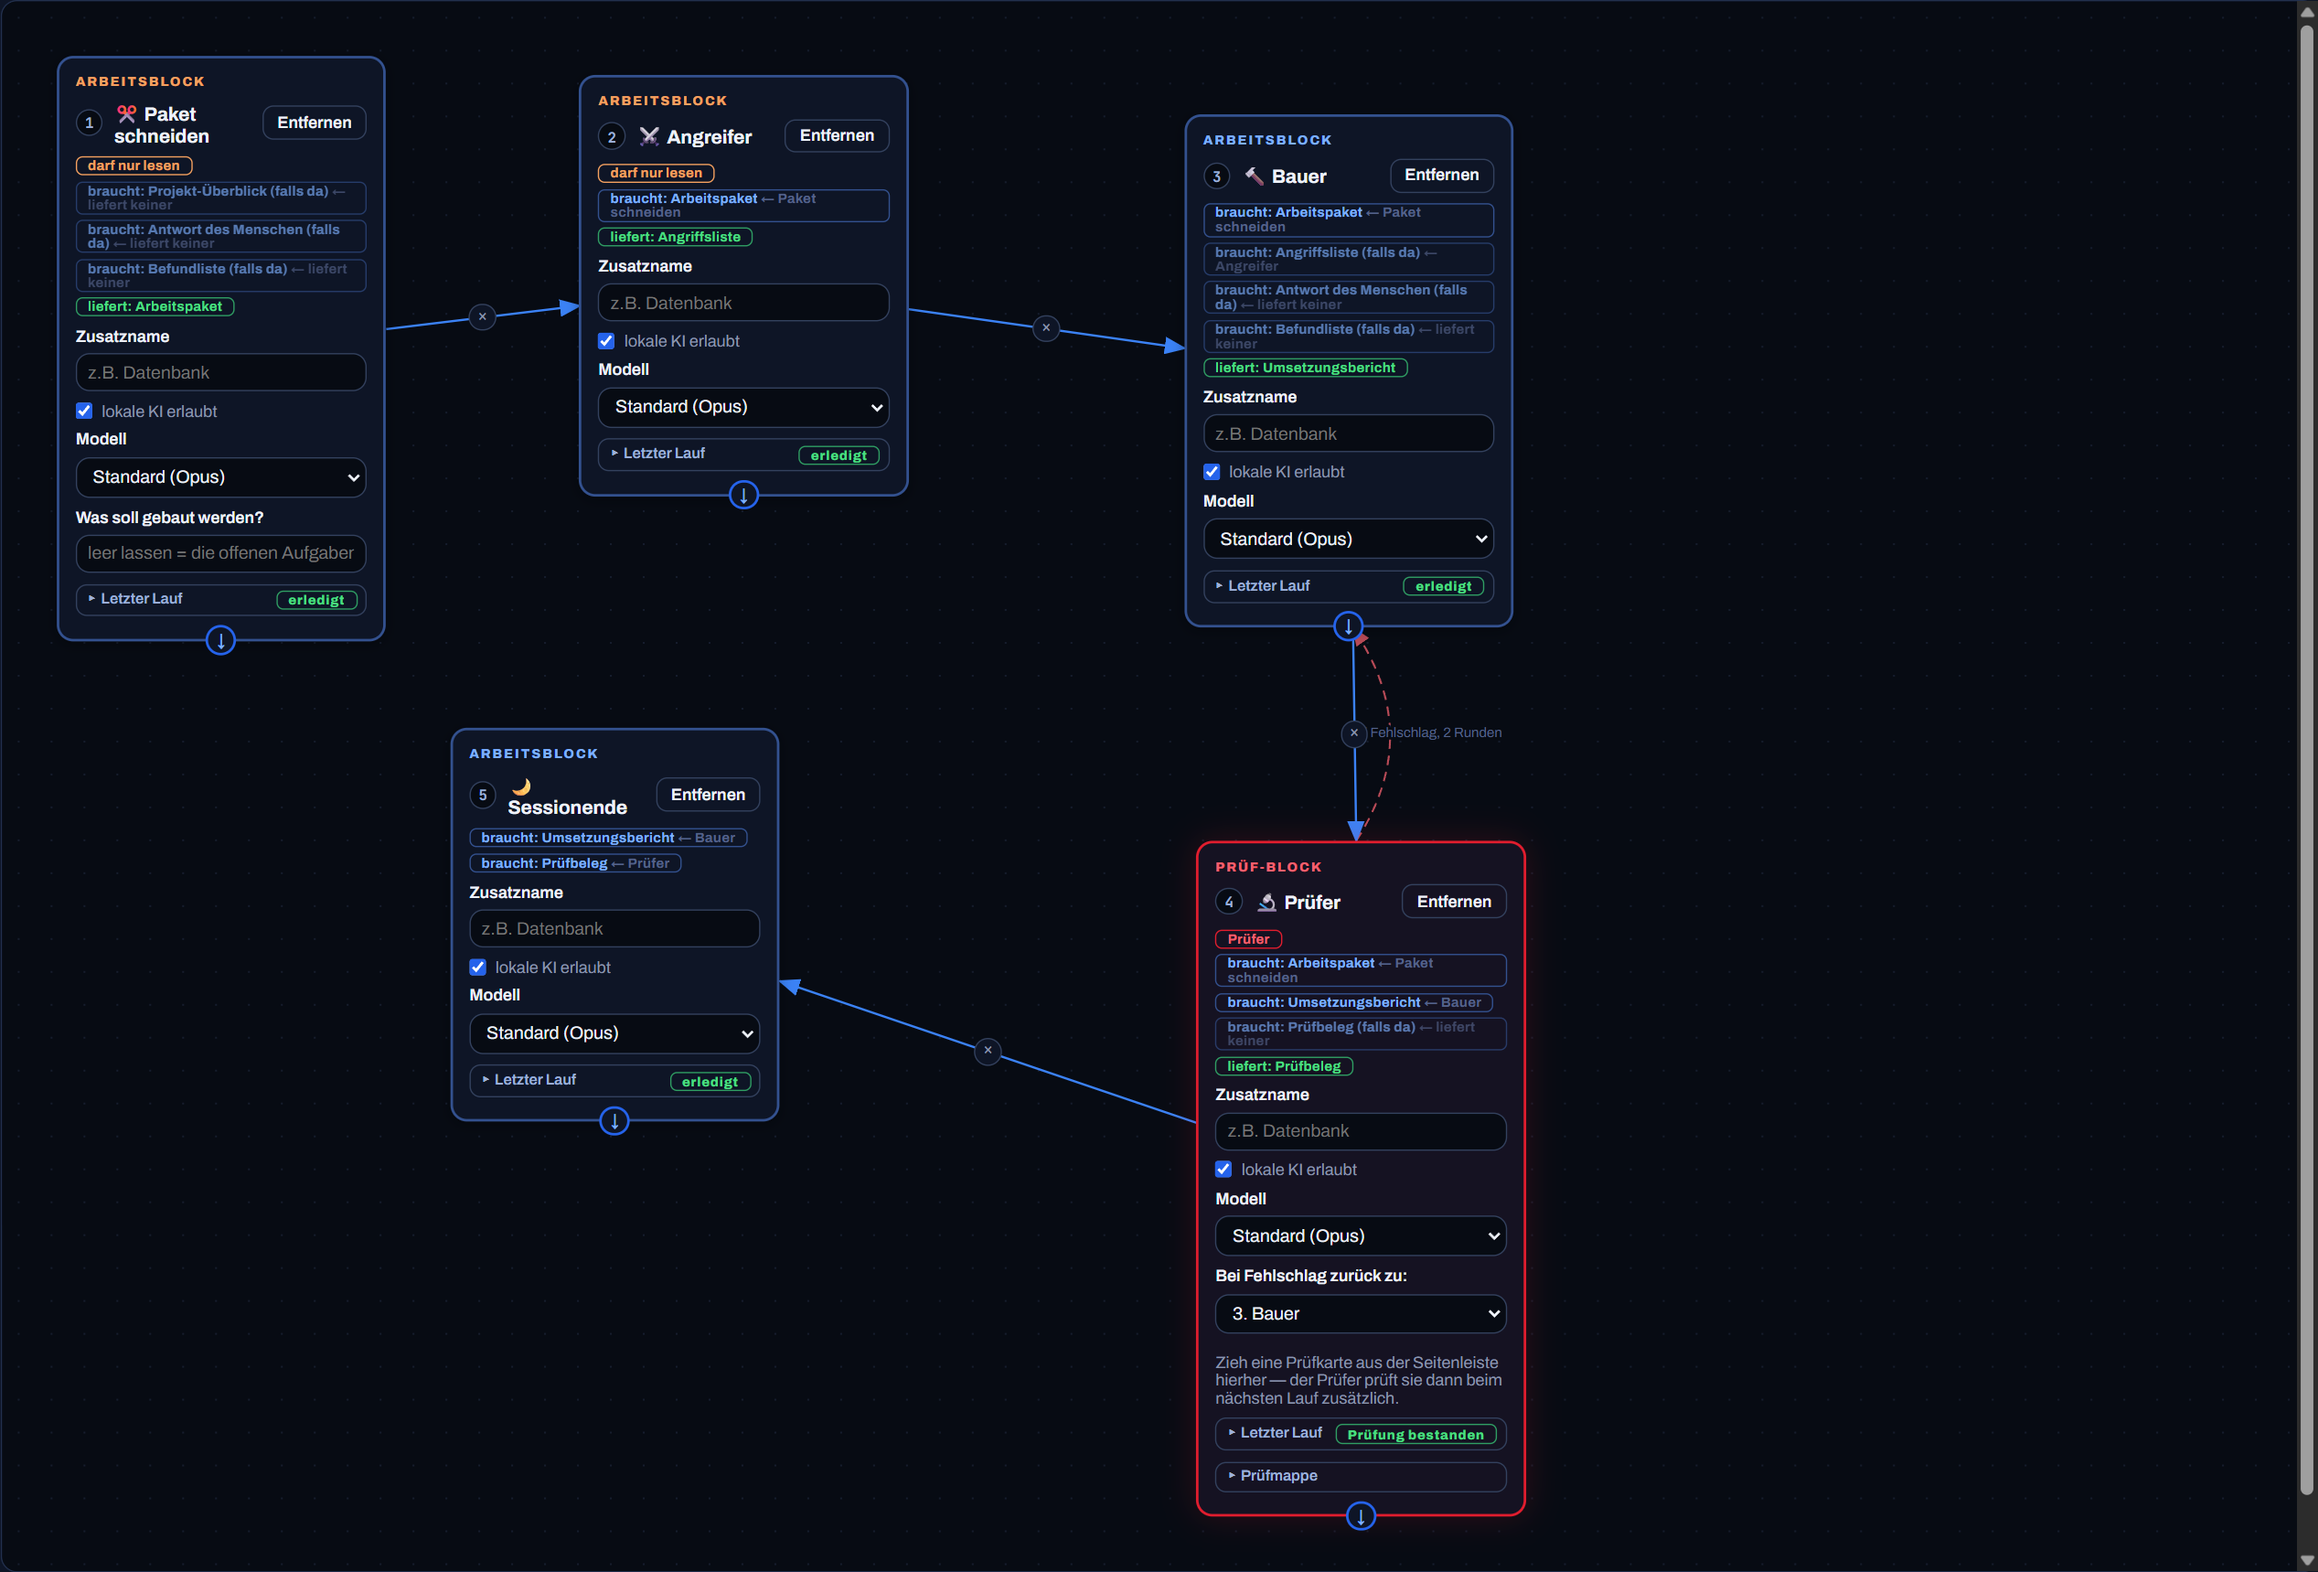
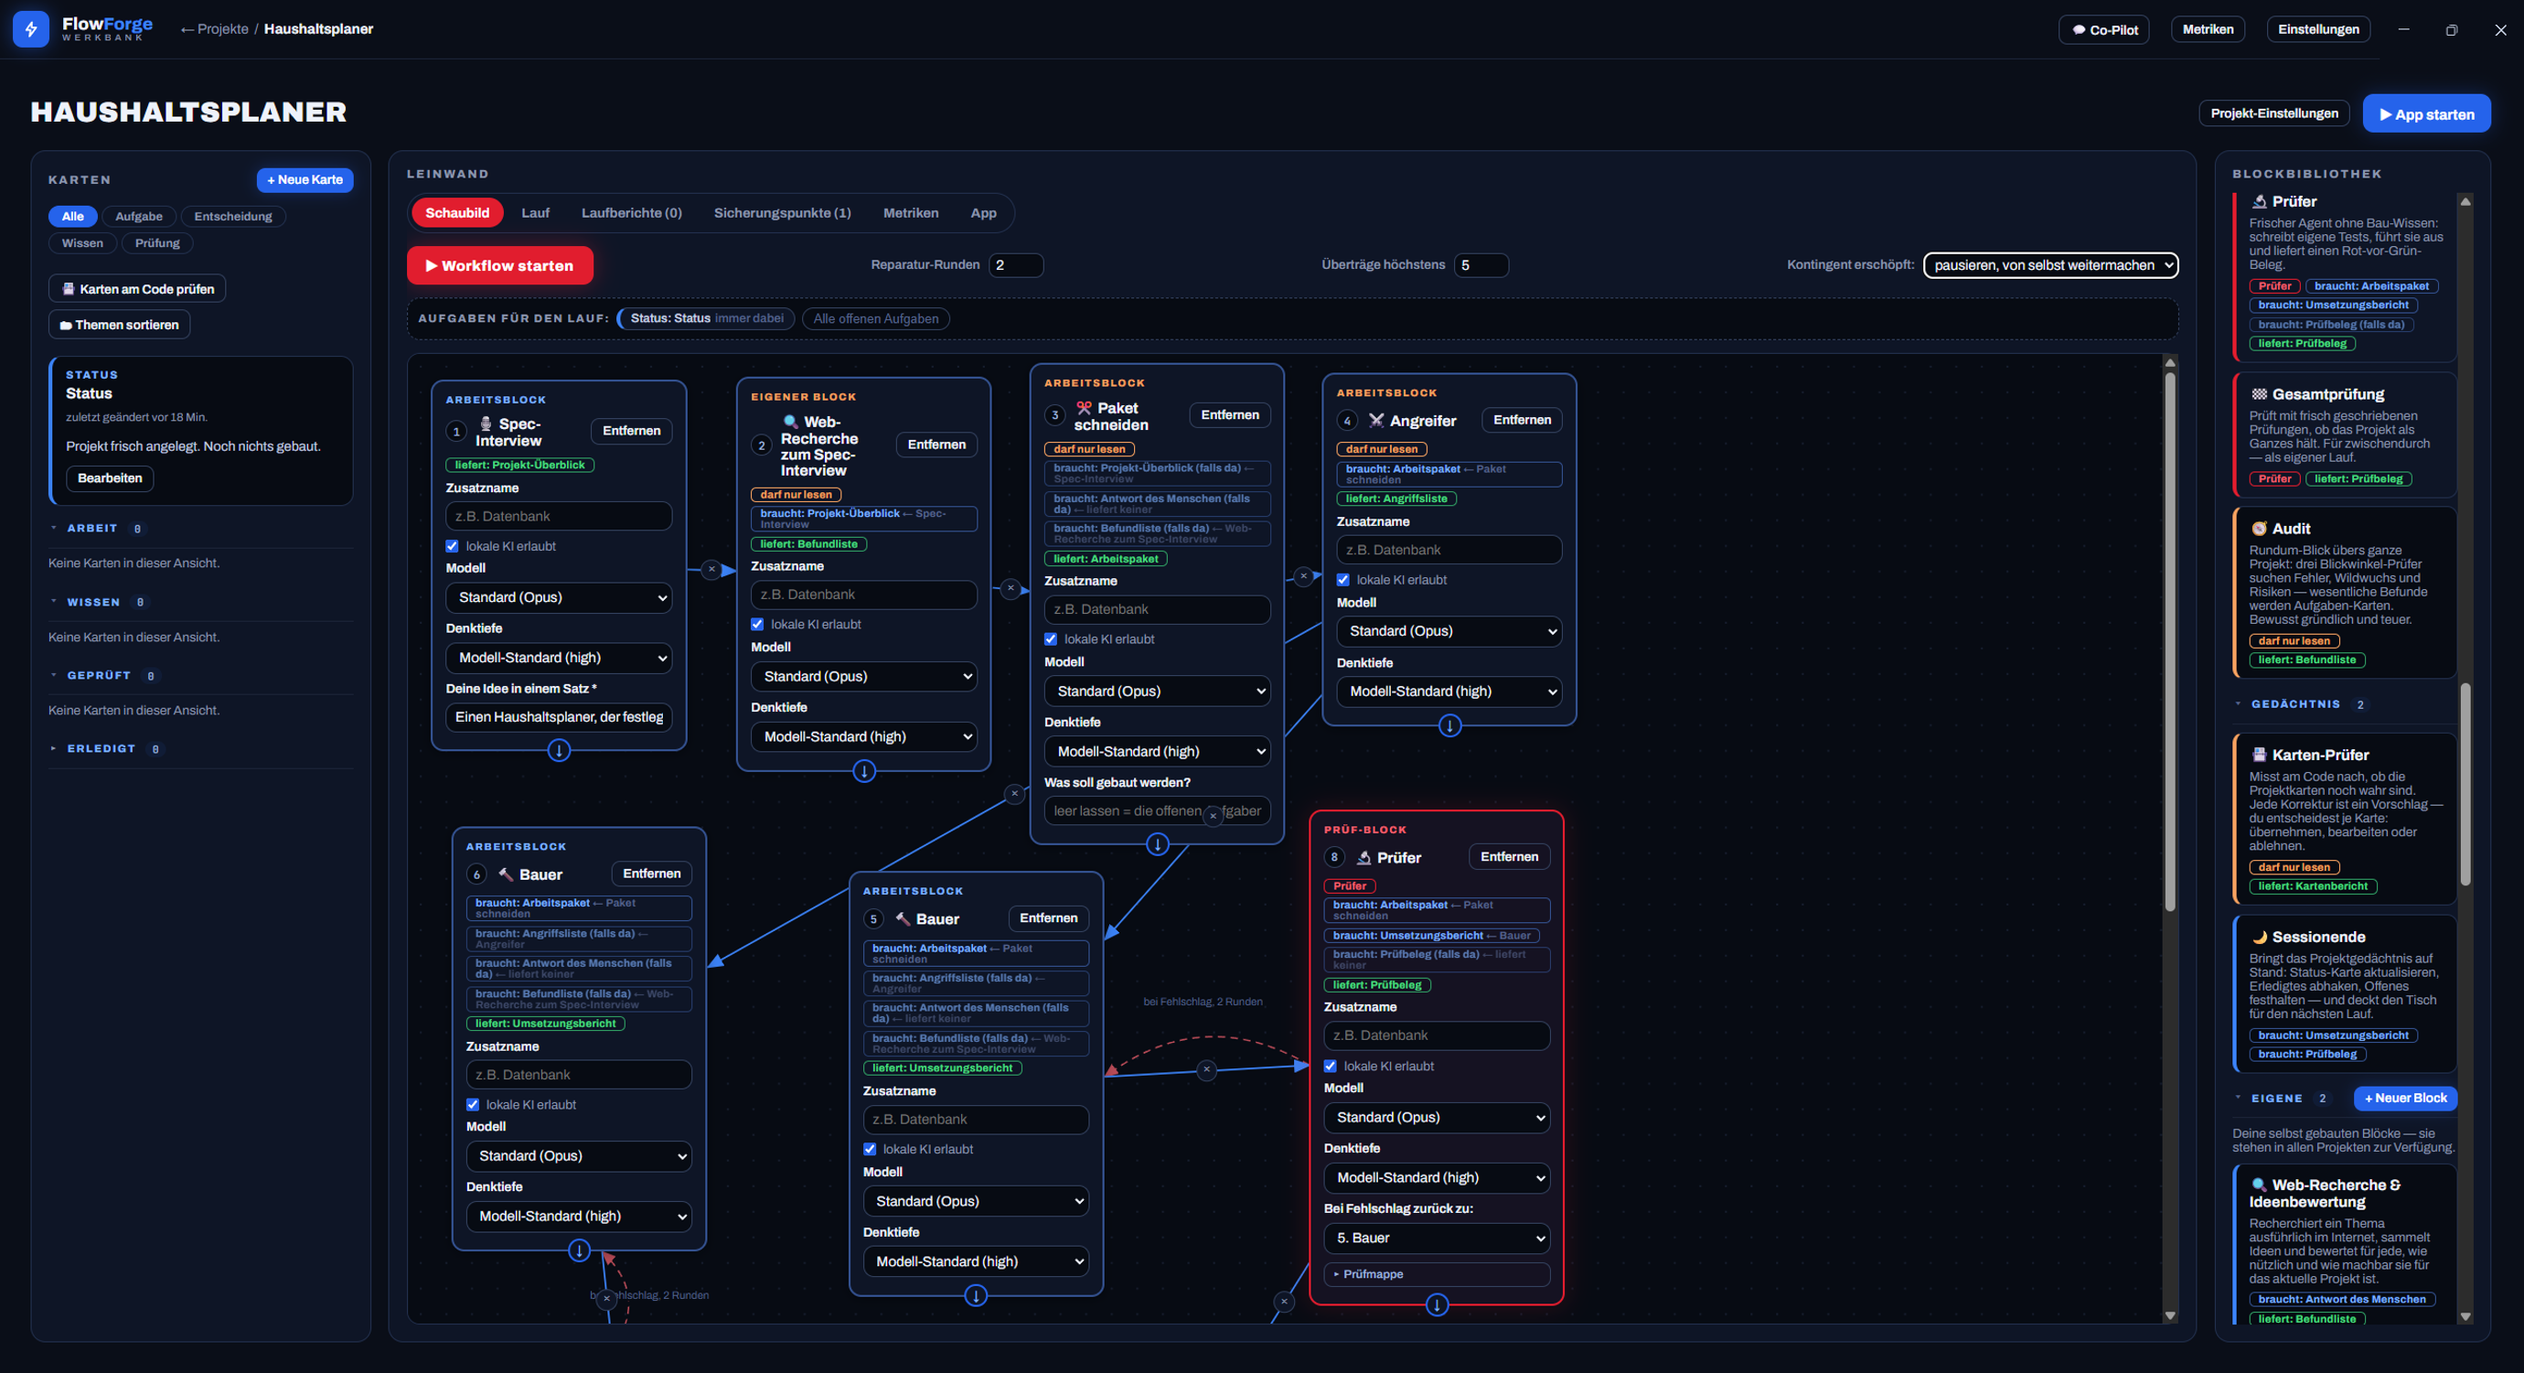
README: neue Funktionen aufgenommen, Schaubild- und Lauf-Bilder ersetzt
Bilder (Wunsch Georg, aus seinen Aufnahmen vom 22.08.2026):
- schaubild.png ersetzt: elfteiliger Workflow mit Modell- und Denktiefe-Wahl je
  Karte, dazu schaubild-fortsetzung.png fuer den zweiten Teil der Kette
  (zwei parallele Bauer, Integrator, Sessionende).
- werkbank-lauf.png ersetzt werkbank-laufbericht.png: ein LAUFENDER Lauf mit
  Gespraech, Liveticker und aufgeklapptem Denken statt der Bericht-Ansicht.

Persoenliche Daten in werkbank-lauf.png unkenntlich gemacht — acht wortgenaue
Masken, keine flaechigen (der Gespraechsverlauf bleibt lesbar, sonst zeigte das
Bild nichts mehr von dem, wofuer es da ist): zweimal zwei Vornamen in den Fragen
F10 und F11, zweimal im Denk-Protokoll, dazu Name und Alter eines Kindes im
Ticker. Das abgeschnittene, halb ausgeblendete Bruchstueck am oberen Rand ist als
Ganzes maskiert — dort sitzen vier Namen in einer Zeile, an der ohnehin nichts zu
lesen ist.

Die Positionen sind mit einem Lineal-Ueberzug GEMESSEN, nicht geschaetzt: Der
erste Versuch lag um bis zu 40 px daneben, eine Maske landete auf "Muelltonnen"
statt auf dem Namen daneben, und an zwei Stellen blieben Namensreste stehen.
Jede Maske ist danach im fertigen Bild unter der Lupe gegengeprueft.

Text: neuer Abschnitt zur lokalen KI (Block-Agent ueber Ollama, Abnahme des
lokalen Pruefers, Lokal-Waechter, Speicher-Ehrlichkeit, Websuche, Adress-Liste)
und zu den Pruefungen, die sich selbst abspielen (Bauschritt 52). Drei neue
[…]

diff --git a/README.md b/README.md
@@ -24,17 +24,27 @@ gestartet; sie bekommt Block für Block genau einen Auftrag.
 **Das Schaubild.** Block-Karten auf der Leinwand, Pfeile bestimmen die
 Reihenfolge. An jeder Karte steht, was der Block **braucht** und **liefert**, und
 woher es kommt („← Paket schneiden"); ein Prüfer ohne Arbeitspaket lässt sich gar
-nicht erst starten. Der rote Prüf-Block schickt den Bauer bei Rot zurück
-(„Fehlschlag, 2 Runden") — mechanisch, ohne dass die KI darüber entscheidet.
+nicht erst starten. Je Karte wählst du außerdem **Modell** und **Denktiefe** —
+vom sparsamen Sonnet bis zur lokalen KI auf deinem eigenen Rechner. Der rote
+Prüf-Block schickt den Bauer bei Rot zurück („Fehlschlag, 2 Runden") — mechanisch,
+ohne dass die KI darüber entscheidet.
 
-<img src="docs/bilder/schaubild.png" alt="Schaubild: Paket schneiden → Angreifer → Bauer → Prüfer → Sessionende, mit braucht/liefert-Chips und Rückführungspfeil" width="100%">
+<img src="docs/bilder/schaubild.png" alt="Schaubild: Spec-Interview → Web-Recherche → Paket schneiden → Angreifer → zwei Bauer → Prüfer, mit braucht/liefert-Chips, Modell- und Denktiefe-Wahl je Karte und Rückführungspfeil" width="100%">
 
-**Die Projektansicht nach einem Lauf.** Links die Karten (Status, Aufgaben,
-Entscheidungen, Wissen — vom Sessionende gepflegt), in der Mitte der Laufbericht
-mit Tokens, Modell, lokaler Helfer-KI, den Blöcken und jeder Rechte-Rückfrage
-samt Antwort, rechts die Blockbibliothek.
+Dieselbe Leinwand weitergescrollt: zwei Bauer laufen **parallel**, jeder mit
+eigenem Prüfer; der **Integrator (Code)** führt ihre Teile zusammen und geht
+selbst noch einmal durch einen Prüfer, bevor das **Sessionende** die Karten auf
+Stand bringt.
 
-<img src="docs/bilder/werkbank-laufbericht.png" alt="Projektansicht mit Karten-Seitenleiste, Laufbericht und Blockbibliothek" width="100%">
+<img src="docs/bilder/schaubild-fortsetzung.png" alt="Fortsetzung des Schaubilds: zwei Bauer mit je eigenem Prüfer, Integrator (Code) führt zusammen, danach Prüfer und Sessionende" width="100%">
+
+**Ein Lauf, während er läuft.** Oben das **Gespräch**: Ein Block darf dich fragen,
+wenn eine Entscheidung dir gehört — der Lauf hält an, bis du antwortest (hier
+unscharf, es ging um private Haushaltsfragen). Darunter der **Liveticker**, der
+jeden Schritt mitschreibt: gemessene Größe des Start-Prompts, jeder ausgeführte
+Befehl, jede Frage. Ganz unten kannst du dem Agenten beim **Denken** zusehen.
+
+<img src="docs/bilder/werkbank-lauf.png" alt="Laufender Lauf: Gespräch mit Rückfragen an den Menschen, Liveticker mit Token-Messung und Befehlen, aufgeklapptes Denken des Agenten" width="100%">
 
 **Rechte des Agenten.** Drei Stufen, die FlowForge je Werkzeugaufruf durchsetzt:
 ohne Rückfrage · nur mit deiner Erlaubnis · immer gesperrt. Der Automodus betrifft
@@ -62,6 +72,44 @@ anmelden soll (siehe unten).
 <img src="docs/bilder/projektuebersicht.png" alt="Projektübersicht mit Kacheln" width="100%">
 <img src="docs/bilder/erststart.png" alt="Erststart-Dialog: Abo-Login oder API-Schlüssel" width="100%">
 
+## Die lokale KI: Opus an den Enden, dein Rechner in der Mitte
+
+Seit Bauschritt 49–51 kann jeder Block auch von einer **lokalen KI über Ollama**
+ausgeführt werden — auf demselben Rechner oder einem anderen im Heimnetz. Das
+kostet kein Kontingent und keine Cent. Der Gedanke dahinter: Die teuren Modelle
+stehen an den Enden der Kette (Paket schneiden, Prüfen, Abnahme), die lokale KI
+arbeitet in der Mitte.
+
+Damit das kein Vertrauensvorschuss bleibt, prüft FlowForge nach:
+
+- **Lokaler Prüfer mit Abnahme.** Sagt eine lokale KI „bestanden", spielt
+  FlowForge ihren Prüfbefehl selbst nach. Rot dreht das Urteil mechanisch um —
+  ein „bestanden" gilt nie ungeprüft.
+- **Der Lokal-Wächter.** Gemessen: Ollama schneidet oberhalb der Fensterkante
+  still ab und meldet dann geschönte Zahlen, die eingebaute Verdichtung der CLI
+  kann lokal also nie greifen. FlowForge schätzt den Füllstand deshalb selbst und
+  löst die Übergabe rechtzeitig aus, statt den Block sterben zu lassen.
+- **Speicher-Ehrlichkeit.** FlowForge fragt Ollamas Prozessliste, ob das Modell
+  wirklich auf der Grafikkarte liegt — statt es aus der Modellgröße zu raten. Ein
+  Lauf, der in den Arbeitsspeicher ausgelagert wird, kriecht sonst stundenlang.
+- **Websuche für lokale Blöcke.** Zwei rein lesende Werkzeuge, wahlweise über eine
+  eingebaute Quelle oder deine eigene SearXNG-Instanz. Harte Größendeckel, dein
+  Rechner und dein Heimnetz gesperrt, jeder Zugriff im Liveticker.
+- **Mehrere Rechner.** Eine Adress-Liste statt eines Feldes: je Adresse läuft ein
+  lokaler Block, mit mehreren laufen sie parallel.
+
+## Prüfungen, die nicht veralten
+
+Nach jeder bestandenen Prüfung legt FlowForge eine **Prüfkarte** an und bewahrt
+die Prüfdateien dahinter auf. Seit Bauschritt 52 spielt es sie **von selbst**
+wieder ab — ohne KI, 0 Tokens —, direkt vor und nach jedem schreibenden Block.
+Welche Prüfung dran ist, entscheidet eine Regel und kein Agent: Fasst das laufende
+Paket eine Datei an, die diese Prüfung kennt, läuft sie; im Zweifel läuft sie.
+Dazu laufen je Messpunkt zwei Karten reihum mit — die Gegenprobe gegen die
+Blindheit eines Listenvergleichs. Das Ergebnis geht dem Prüfer in den Auftrag,
+löst aber **keine** Reparatur-Runde aus: Zwischen zwei Bau-Runden darf Rot
+legitim sein.
+
 Was FlowForge **erzwingt**, statt darum zu bitten (die Lehre aus dem Vorgängerprojekt,
 in dem Regeln nur als Text im Prompt standen):
 
@@ -73,13 +121,16 @@ in dem Regeln nur als Text im Prompt standen):
 | Parallel schreiben | nur mit getrennten Dateilisten (Wirkbereich), Prüfer nie neben Bauer |
 | Jeder Schritt rückholbar | Sicherungspunkt vor dem Lauf und nach jedem schreibenden Block |
 | Kontext läuft über | bei ~85 % Füllstand der Lauf-Session Übergabe und frische Session, derselbe Block läuft weiter — automatisch |
+| Lokales „bestanden" | wird mechanisch nachgespielt; rot dreht das Urteil um |
+| Alte Prüfungen | laufen automatisch mit, ausgewählt per Dateivergleich — kein Agent schätzt, was betroffen ist |
+| Prüfmappe `pruefung/` | gehört den Prüf-Blöcken; jeder Prüfer nur sein eigener Ordner — auch für Befehle, die dorthin schreiben |
 
 ## Was es ist — und was nicht
 
 - **Ist:** ein Ein-Personen-Projekt, das ich für mich gebaut habe und benutze.
   Windows 11. Der KI-Motor ist die offizielle Claude Code CLI, über das Claude
-  Agent SDK gebündelt und im Hintergrund gestartet. Optional hilft eine lokale KI
-  über Ollama mit.
+  Agent SDK gebündelt und im Hintergrund gestartet. Optional übernimmt eine
+  lokale KI über Ollama einzelne Blöcke ganz (siehe oben).
 - **Ist nicht:** ein Produkt. Kein Support, keine Roadmap für andere, keine
   Beiträge erwartet (Issues und Pull Requests werden vermutlich nicht bearbeitet).
   Kein macOS, kein Linux.
@@ -96,12 +147,12 @@ ist — aber sie ist nicht versprochen.
 ### Ehrlich zum Code
 
 Der Code ist **gewachsen, nicht entworfen** — eher Spaghetti als Architektur.
-`src/main/lauf.js` hat über 5.000 Zeilen, der Motor-Adapter 2.400, die Texte
-3.300; es gibt keine saubere Schichtung, vieles hängt an langen Funktionen mit
+`src/main/lauf.js` hat fast 7.000 Zeilen, der Motor-Adapter 3.300, die Texte
+4.900; es gibt keine saubere Schichtung, vieles hängt an langen Funktionen mit
 vielen Sonderfällen, die jeweils eine Lehre aus einem echten Lauf sind. Was ihn
 zusammenhält: Jeder Bauschritt beginnt mit einer Angriffsliste (woran könnte genau
 das scheitern?) und endet mit Prüfer-Agenten, die das Verhalten nachmessen statt
-den Code zu lesen; `npm test` fährt über 700 Regel-Prüfungen in `pruefungen/`.
+den Code zu lesen; `npm test` fährt über 1.500 Regel-Prüfungen in `pruefungen/`.
 Das ist der Schutz, nicht die Struktur. Wer den Code lesen will: entlang der
 SPEC-Paragraphen und der Prüfdateien, nicht entlang der Ordner. Ein Aufräumen
 steht nicht im Bauplan — die fachlichen Schritte gehen vor.
